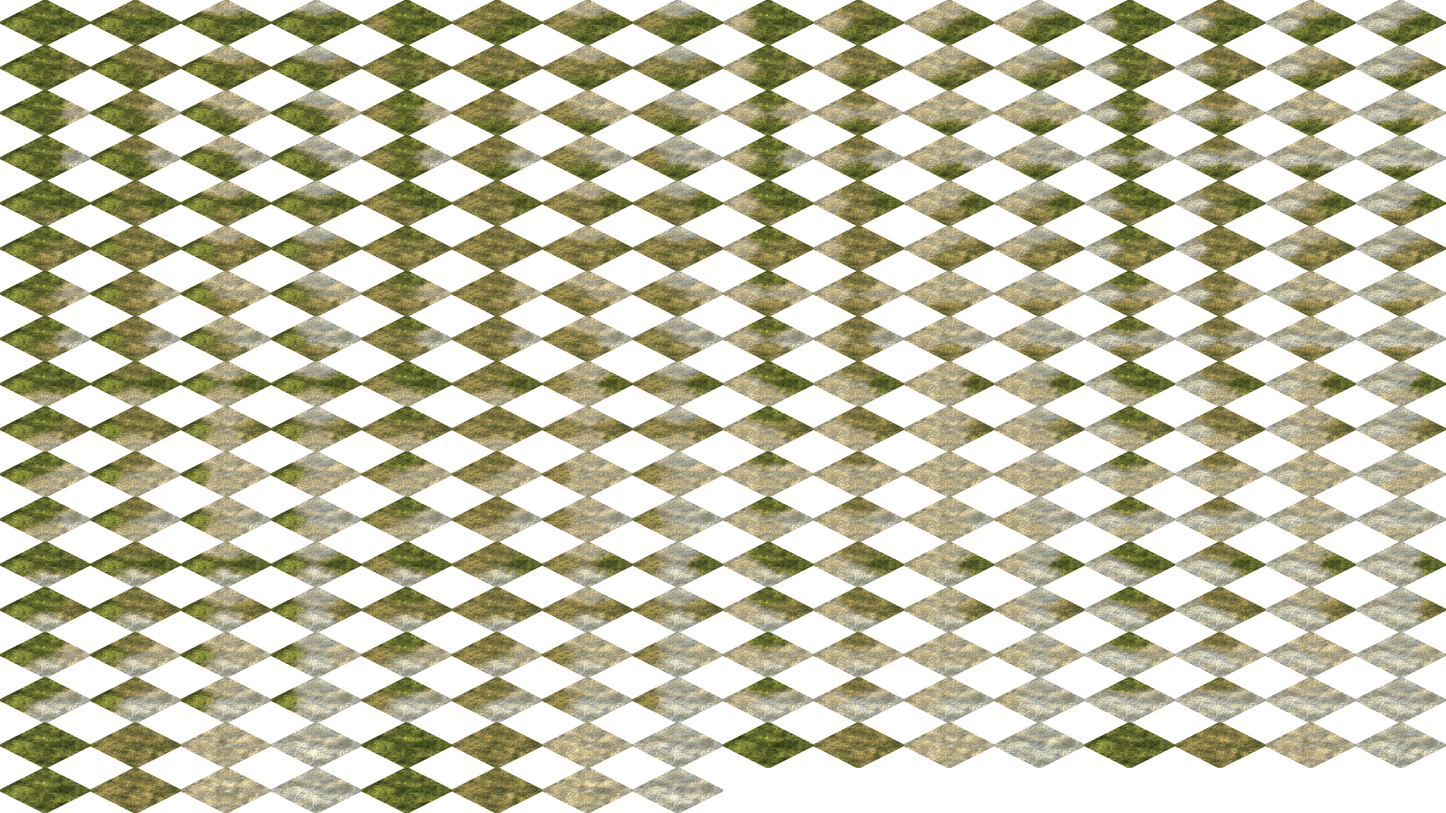
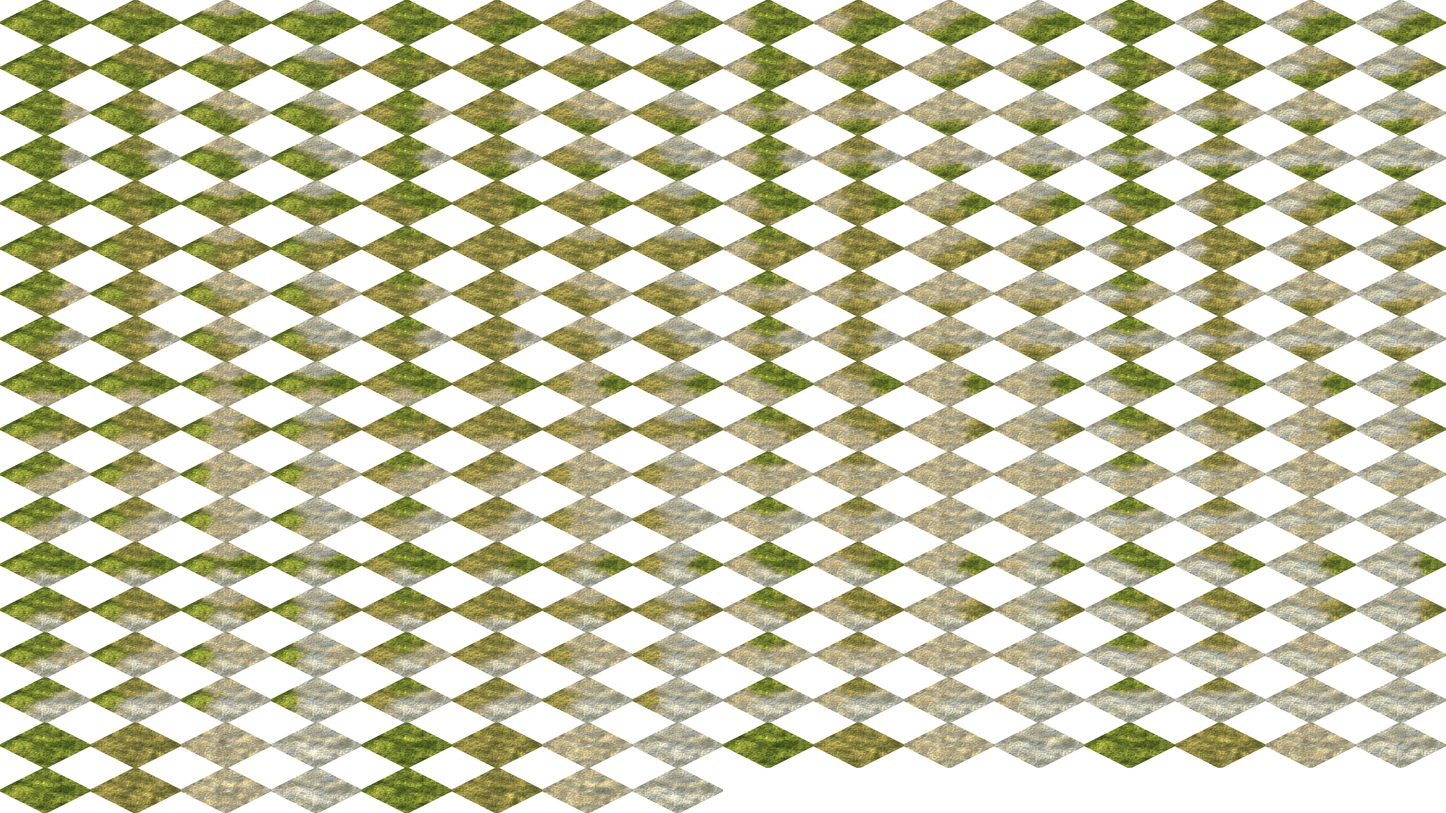
refresh terrain palette and water shading
- Brighten land and vegetation while shifting hills and mountains to greener, cooler tones
- Blend teal water depth bands with broader swell and wave highlights
- Update shoreline farm sprites and document the revised terrain look

diff --git a/open-4x/art/forge/terrain.py b/open-4x/art/forge/terrain.py
@@ -35,10 +35,10 @@ WATER_NAMES = ("land", "coast", "sea", "ocean")
 # how deep each water digit reads, 0 = shoreline shallows, 1 = open ocean
 WATER_DEPTH = np.array([0.0, 0.16, 0.58, 1.0], dtype=np.float32)
 
-# Olive-drab, khaki and brown: the land is a worn, sun-baked painting, not a lawn.  Shadow runs to
-# a brown-green near black, the lit crowns to a dry yellow-olive.
-GRASSLAND_STOPS = [(0.00, "#2e3b18"), (0.22, "#434f1f"), (0.48, "#5d6b27"), (0.74, "#7d8a33"), (1.00, "#a2a748")]
-PLAINS_STOPS = [(0.00, "#48442a"), (0.25, "#645d34"), (0.52, "#7f7642"), (0.78, "#9b9059"), (1.00, "#b9ad82")]
+# Sunlit meadow green running to a warm yellow-olive on the lit crowns; shadow runs to a deep
+# green-brown.  Plains are the same land gone to straw and khaki.
+GRASSLAND_STOPS = [(0.00, "#34481a"), (0.22, "#4e6620"), (0.48, "#6c8428"), (0.74, "#8f9e33"), (1.00, "#bab650")]
+PLAINS_STOPS = [(0.00, "#504a26"), (0.25, "#6e6a32"), (0.52, "#8c8540"), (0.78, "#aa9f56"), (1.00, "#c9b97a")]
 DESERT_STOPS = [(0.00, "#8f8264"), (0.35, "#b0a482"), (0.65, "#cbc1a0"), (1.00, "#e3dbc0")]
 TUNDRA_STOPS = [(0.00, "#767a68"), (0.30, "#969886"), (0.60, "#b9baac"), (1.00, "#dcddd3")]
 BEACH_STOPS = [(0.00, "#9a8a58"), (0.40, "#bfb078"), (0.75, "#d9cc96"), (1.00, "#ebe2b8")]
@@ -130,7 +130,7 @@ class Fields:
         t = unit(1.15 * low + 1.0 * mid + 0.35 * fine)
         col = P.ramp(t, GRASSLAND_STOPS)
         meadow = P.smoothstep(0.15, 0.55, fbm(a, b, 5, 3, seed=14, warp=0.25) * 1.5)
-        col = P.mix(col, P.hx("#95a548"), meadow * 0.30)
+        col = P.mix(col, P.hx("#a8b04a"), meadow * 0.30)
         shade = P.smoothstep(0.10, 0.45, fbm(a, b, 18, 2, seed=15) * 1.5)
         col = col * (1.0 - 0.18 * shade)[..., None]
         col = col * (1.0 + 0.16 * self.bump)[..., None]
@@ -220,13 +220,14 @@ def render_ground(f: Fields, n: int, e: int, s: int, w_: int) -> np.ndarray:
     return np.dstack([np.clip(rgb, 0, 1), _edge_alpha(f)])
 
 
-# Water reads in three flat bands, like a painted chart: bright azure over the shelf (coast),
-# royal blue in the sea, near-black navy in the ocean.  The bands meet along a ragged isoline with a
-# dark lip on the deep side, so a sea tile cuts into the shallows instead of fading into them.
-COAST_STOPS = [(0.00, "#86dcee"), (0.30, "#5ecbe6"), (0.65, "#42b5de"), (1.00, "#33a3d3")]
-SEA_STOPS = [(0.00, "#1a56a6"), (0.50, "#2169b6"), (1.00, "#2c7cc6")]
-OCEAN_STOPS = [(0.00, "#071f5e"), (0.50, "#0b2a72"), (1.00, "#12388a")]
-SURF = "#d2f3f6"  # the thin pale line where water meets sand
+# Water is one painted teal sea that deepens with distance from shore: pale turquoise over the
+# shelf (coast), steel teal in the sea, deep slate blue in the ocean.  The depths fade into each
+# other over a wide, ragged band, and wave strokes run across all of them.
+COAST_STOPS = [(0.00, "#86c9cc"), (0.30, "#62afbd"), (0.65, "#4893a9"), (1.00, "#3b839c")]
+SEA_STOPS = [(0.00, "#235f7b"), (0.50, "#2b6c88"), (1.00, "#377b95")]
+OCEAN_STOPS = [(0.00, "#1c4c68"), (0.50, "#225873"), (1.00, "#2a647f")]
+SURF = "#e8f1ea"  # the thin pale line where water meets sand
+BAND_SOFT = 0.11  # half-width of the fade between depth bands
 SEA_AT, OCEAN_AT = 0.37, 0.79  # halfway between the depth digits 0.16 / 0.58 / 1.0
 ZONE_JITTER = (0.12, 0.05)  # isoline wander; its sum stays under the 0.21 gap, so edges of equal digits never flip
 
@@ -236,8 +237,8 @@ def _water(f: Fields, depth, shore=1.0):
     `shore` runs 0 at the beach to 1 away from it and brightens the shelf.  Ripples are fine-grained
     on purpose: open-sea cells repeat, so no blob may stand out per tile."""
     d = depth + ZONE_JITTER[0] * f.zone + ZONE_JITTER[1] * f.zone_fine
-    sea_w = P.smoothstep(SEA_AT - 0.018, SEA_AT + 0.018, d)
-    ocean_w = P.smoothstep(OCEAN_AT - 0.018, OCEAN_AT + 0.018, d)
+    sea_w = P.smoothstep(SEA_AT - BAND_SOFT, SEA_AT + BAND_SOFT, d)
+    ocean_w = P.smoothstep(OCEAN_AT - BAND_SOFT, OCEAN_AT + BAND_SOFT, d)
 
     chop = np.clip(f.ripple * 1.5 + 0.6 * f.chop, -1, 1)
     grain = 0.5 + 0.5 * chop
@@ -246,26 +247,20 @@ def _water(f: Fields, depth, shore=1.0):
     ocean = P.ramp(grain, OCEAN_STOPS)
     col = P.mix(P.mix(coast, sea, sea_w), ocean, ocean_w)
 
-    # wave strokes: pale on the shelf, a lighter blue in the sea, barely there in the ocean
+    # broad swell: soft light and shade rolling across the open water
+    col = col * (1.0 + 0.07 * f.swell)[..., None]
+    # wave strokes: pale crests on every depth, a darker trough under each
     ridge2 = 1.0 - np.abs(f.ripple2 * 3.2)
-    streak = P.smoothstep(0.70, 0.96, ridge2)
-    col = P.mix(col, P.hx("#b4ecf6"), streak * 0.16 * (1.0 - sea_w))
-    col = P.mix(col, P.hx("#5b9ad8"), streak * 0.20 * sea_w * (1.0 - ocean_w))
-    col = P.mix(col, P.hx("#2a58a8"), streak * 0.20 * ocean_w)
+    streak = P.smoothstep(0.66, 0.96, ridge2)
+    col = P.mix(col, P.hx("#b8e2e2"), streak * 0.20 * (1.0 - sea_w))
+    col = P.mix(col, P.hx("#6ea6b6"), streak * 0.24 * sea_w * (1.0 - ocean_w))
+    col = P.mix(col, P.hx("#5189a1"), streak * 0.22 * ocean_w)
     ridge1 = 1.0 - np.abs(f.ripple * 3.0)
-    trough = P.smoothstep(0.78, 0.97, ridge1)
-    col = col * (1.0 - 0.10 * trough)[..., None]
-
-    # lips along the band edges: lighter just inside the shallow side, a dark rim on the deep side
-    for at, deep_lip, shallow_lip in ((SEA_AT, "#0f3c7e", "#8fe3f4"), (OCEAN_AT, "#041440", "#2e72c4")):
-        above = P.smoothstep(at - 0.004, at + 0.004, d)  # 1 on the deep side
-        lip_dark = above * (1.0 - P.smoothstep(0.012, 0.075, d - at))
-        lip_light = (1.0 - above) * (1.0 - P.smoothstep(0.012, 0.060, at - d))
-        col = P.mix(col, P.hx(deep_lip), lip_dark * 0.80)
-        col = P.mix(col, P.hx(shallow_lip), lip_light * 0.45)
+    trough = P.smoothstep(0.74, 0.97, ridge1)
+    col = col * (1.0 - 0.13 * trough)[..., None]
 
     glint = P.smoothstep(0.62, 0.90, f.sparkle * 1.7)
-    return P.mix(col, P.hx("#e4f8fa"), glint * 0.16 * (1.0 - sea_w))
+    return P.mix(col, P.hx("#e4f4f2"), glint * (0.16 - 0.08 * sea_w))
 
 
 def render_water(f: Fields, n: int, e: int, s: int, w_: int) -> np.ndarray:
@@ -296,7 +291,7 @@ def render_water(f: Fields, n: int, e: int, s: int, w_: int) -> np.ndarray:
     swell = swell * P.smoothstep(0.0, 0.3, np.abs(f.foam_noise) + 0.2)
     water = P.mix(water, P.hx(SURF), np.clip(swell * 0.22, 0, 1))
     shore_glow = (1.0 - P.smoothstep(0.0, 0.16, m)) * P.smoothstep(-0.01, 0.01, m)
-    water = P.mix(water, P.hx("#a6eaf6"), shore_glow * 0.30)
+    water = P.mix(water, P.hx("#9fd4d4"), shore_glow * 0.30)
 
     # beach strip on the land side, fading out inland (alpha), darker where the sea wets it
     strip = P.smoothstep(-0.40, -0.07, m + f.beach_edge * 0.10) * (1.0 - P.smoothstep(0.0, 0.03, m))

diff --git a/open-4x/art/forge/nature.py b/open-4x/art/forge/nature.py
@@ -16,8 +16,8 @@ def in_diamond(x, y, margin=0.0):
 # ---- trees ---------------------------------------------------------------------------------------
 # Woods are dark and dense: near-black green in the shade of a crown, a dry yellow-green where the sun
 # strikes it, so a stand reads as a mass against the olive ground with the crowns picked out on top.
-LEAF_STOPS = [(0.0, "#1b3216"), (0.28, "#294a1c"), (0.52, "#3b6126"), (0.76, "#58802f"), (1.0, "#7d9d3e")]
-FIR_STOPS = [(0.0, "#132a1a"), (0.30, "#1e3d26"), (0.55, "#2f5630"), (0.80, "#477238"), (1.0, "#658c44")]
+LEAF_STOPS = [(0.0, "#1b3416"), (0.28, "#2c501c"), (0.52, "#456e26"), (0.76, "#6c9030"), (1.0, "#a6ad48")]
+FIR_STOPS = [(0.0, "#132c1a"), (0.30, "#1f4626"), (0.55, "#33622e"), (0.80, "#558636"), (1.0, "#8aa448")]
 JUNGLE_STOPS = [(0.0, "#173a1c"), (0.28, "#235426"), (0.52, "#37722e"), (0.76, "#58943a"), (1.0, "#80b04c")]
 FROST_STOPS = [(0.0, "#1f342a"), (0.30, "#2d4638"), (0.55, "#42614e"), (0.80, "#5c8068"), (1.0, "#80a088")]
 AUTUMN = ["#a98048", "#b89050", "#9c7044", "#bb9a58", "#a67a48"]  # muted: a hint of turning leaves

diff --git a/open-4x/art/forge/rivers.py b/open-4x/art/forge/rivers.py
@@ -113,11 +113,11 @@ def render_river(mask: int, variant: int) -> np.ndarray:
     mud_a = P.smoothstep(half + BANK + MUD, half + BANK, d) * 0.30
     across = np.clip(lat / half, -1, 1)  # -1 .. 1 over the water
     deep = P.smoothstep(1.0, 0.0, np.abs(across))  # 1 mid-stream
-    water = P.mix(P.hx("#2d86b8"), P.hx("#4cb4de"), deep)
+    water = P.mix(P.hx("#2d7695"), P.hx("#4b9fb5"), deep)
     lit = np.clip(0.5 - 0.5 * across, 0, 1)  # the upper-left bank catches the light
-    water = P.mix(water, P.hx("#9ae2f0"), P.smoothstep(0.55, 1.0, lit) * 0.30 * (1 - deep * 0.4))
+    water = P.mix(water, P.hx("#9fd2d6"), P.smoothstep(0.55, 1.0, lit) * 0.30 * (1 - deep * 0.4))
     water = water * (1.0 + 0.16 * flow)[..., None]
-    water = P.mix(water, P.hx("#dcf6fa"), P.smoothstep(0.62, 0.9, shimmer * 1.7) * 0.22 * deep)
+    water = P.mix(water, P.hx("#e0f2f0"), P.smoothstep(0.62, 0.9, shimmer * 1.7) * 0.22 * deep)
 
     rgb = P.hx("#4a4128") * np.ones((h, w, 1), dtype=np.float32)  # wet earth
     alpha = mud_a

diff --git a/open-4x/art/forge/relief.py b/open-4x/art/forge/relief.py
@@ -22,9 +22,9 @@ GRID = 512
 # summit) where snow starts, `foot` how far the scrub climbs the slopes.
 STYLES = {
     "temperate": dict(
-        rock=[(0, "#4a3426"), (0.35, "#6b4c33"), (0.65, "#8c6844"), (1.0, "#ad8a5e")],
-        scrub=[(0, "#3f4c22"), (0.5, "#566330"), (1.0, "#727c3e")],
-        snow=0.62,
+        rock=[(0, "#3f3934"), (0.35, "#5e564e"), (0.65, "#827970"), (1.0, "#aaa297")],
+        scrub=[(0, "#3e5420"), (0.5, "#5a752a"), (1.0, "#86983c")],
+        snow=0.50,
         foot=0.40,
     ),
     "arid": dict(
@@ -164,8 +164,8 @@ def hills_height(seed=21):
 
 HILL_STYLES = {
     "temperate": dict(
-        cover=[(0, "#3d4c20"), (0.5, "#5a6a2a"), (1.0, "#848f40")],
-        dry=[(0, "#6a6434"), (1.0, "#9c9050")],
+        cover=[(0, "#3c5420"), (0.5, "#5e7a2a"), (1.0, "#93a03e")],
+        dry=[(0, "#76703a"), (1.0, "#b0a456")],
         rock=[(0, "#5a4430"), (1.0, "#9a7c56")],
         snow=2.0,
     ),

diff --git a/open-4x/art/README.md b/open-4x/art/README.md
@@ -21,9 +21,9 @@ Output goes to `assets/packs/base/`; the vector sources of the sprites are writt
 
 ## Terrain look
 
-The terrain follows the look of a hand-painted Civ3 map: dry olive and khaki land with broad light and shadow rolling across it (`terrain.Fields.rolling`, plus a different set of knolls in each tonal variant), dense dark-green woods (`nature.py` ramps run to near-black in the crown shade), brown rocky mountains with only a small summit of snow and olive scrub at their feet (`relief.STYLES`), and a sea in three flat bands: bright azure shelf (coast), royal-blue sea, navy ocean (`terrain.COAST_STOPS`, `SEA_STOPS`, `OCEAN_STOPS`). The bands meet along a ragged isoline with a dark lip on the deep side and a pale lip on the shallow side, so deeper water cuts into the shallows with a hard edge instead of fading.
+The terrain follows the look of a hand-painted strategy map: sunlit meadow-green and straw-khaki land with broad light and shadow rolling across it (`terrain.Fields.rolling`, plus a different set of knolls in each tonal variant), dense green woods whose crowns catch a warm yellow light (`nature.py` ramps run to near-black in the crown shade), grassy green hills, grey rocky mountains under a broad cap of snow with green scrub at their feet (`relief.STYLES`, `HILL_STYLES`), and one teal sea that deepens away from shore: pale turquoise shelf (coast), steel-teal sea, slate-blue ocean (`terrain.COAST_STOPS`, `SEA_STOPS`, `OCEAN_STOPS`). The depths fade into each other over a wide, ragged band (`terrain.BAND_SOFT`), with pale wave strokes and a slow swell across all of them.
 
-Isoline wander is capped (`terrain.ZONE_JITTER`) below the gap between two depth digits, so a cell edge whose two vertices share a digit never changes band and sheets keep tiling. Land is still pulled slightly toward its mean colour (`terrain._calm`) and cover uses `build.COVER_GRADE`. When adding terrain art, check it with a city and a unit on top (`cargo run -p fourx-client -- --scenario age-of-imperialism --focus 112,34 --zoom 1`): the sprite should still win against the ground.
+The band isoline wanders (`terrain.ZONE_JITTER`) with periodic noise, so a border pixel still depends only on the two vertex digits of its edge and sheets keep tiling. Land is still pulled slightly toward its mean colour (`terrain._calm`) and cover uses `build.COVER_GRADE`. When adding terrain art, check it with a city and a unit on top (`cargo run -p fourx-client -- --scenario age-of-imperialism --focus 112,34 --zoom 1`): the sprite should still win against the ground.
 
 ## Originality
 
